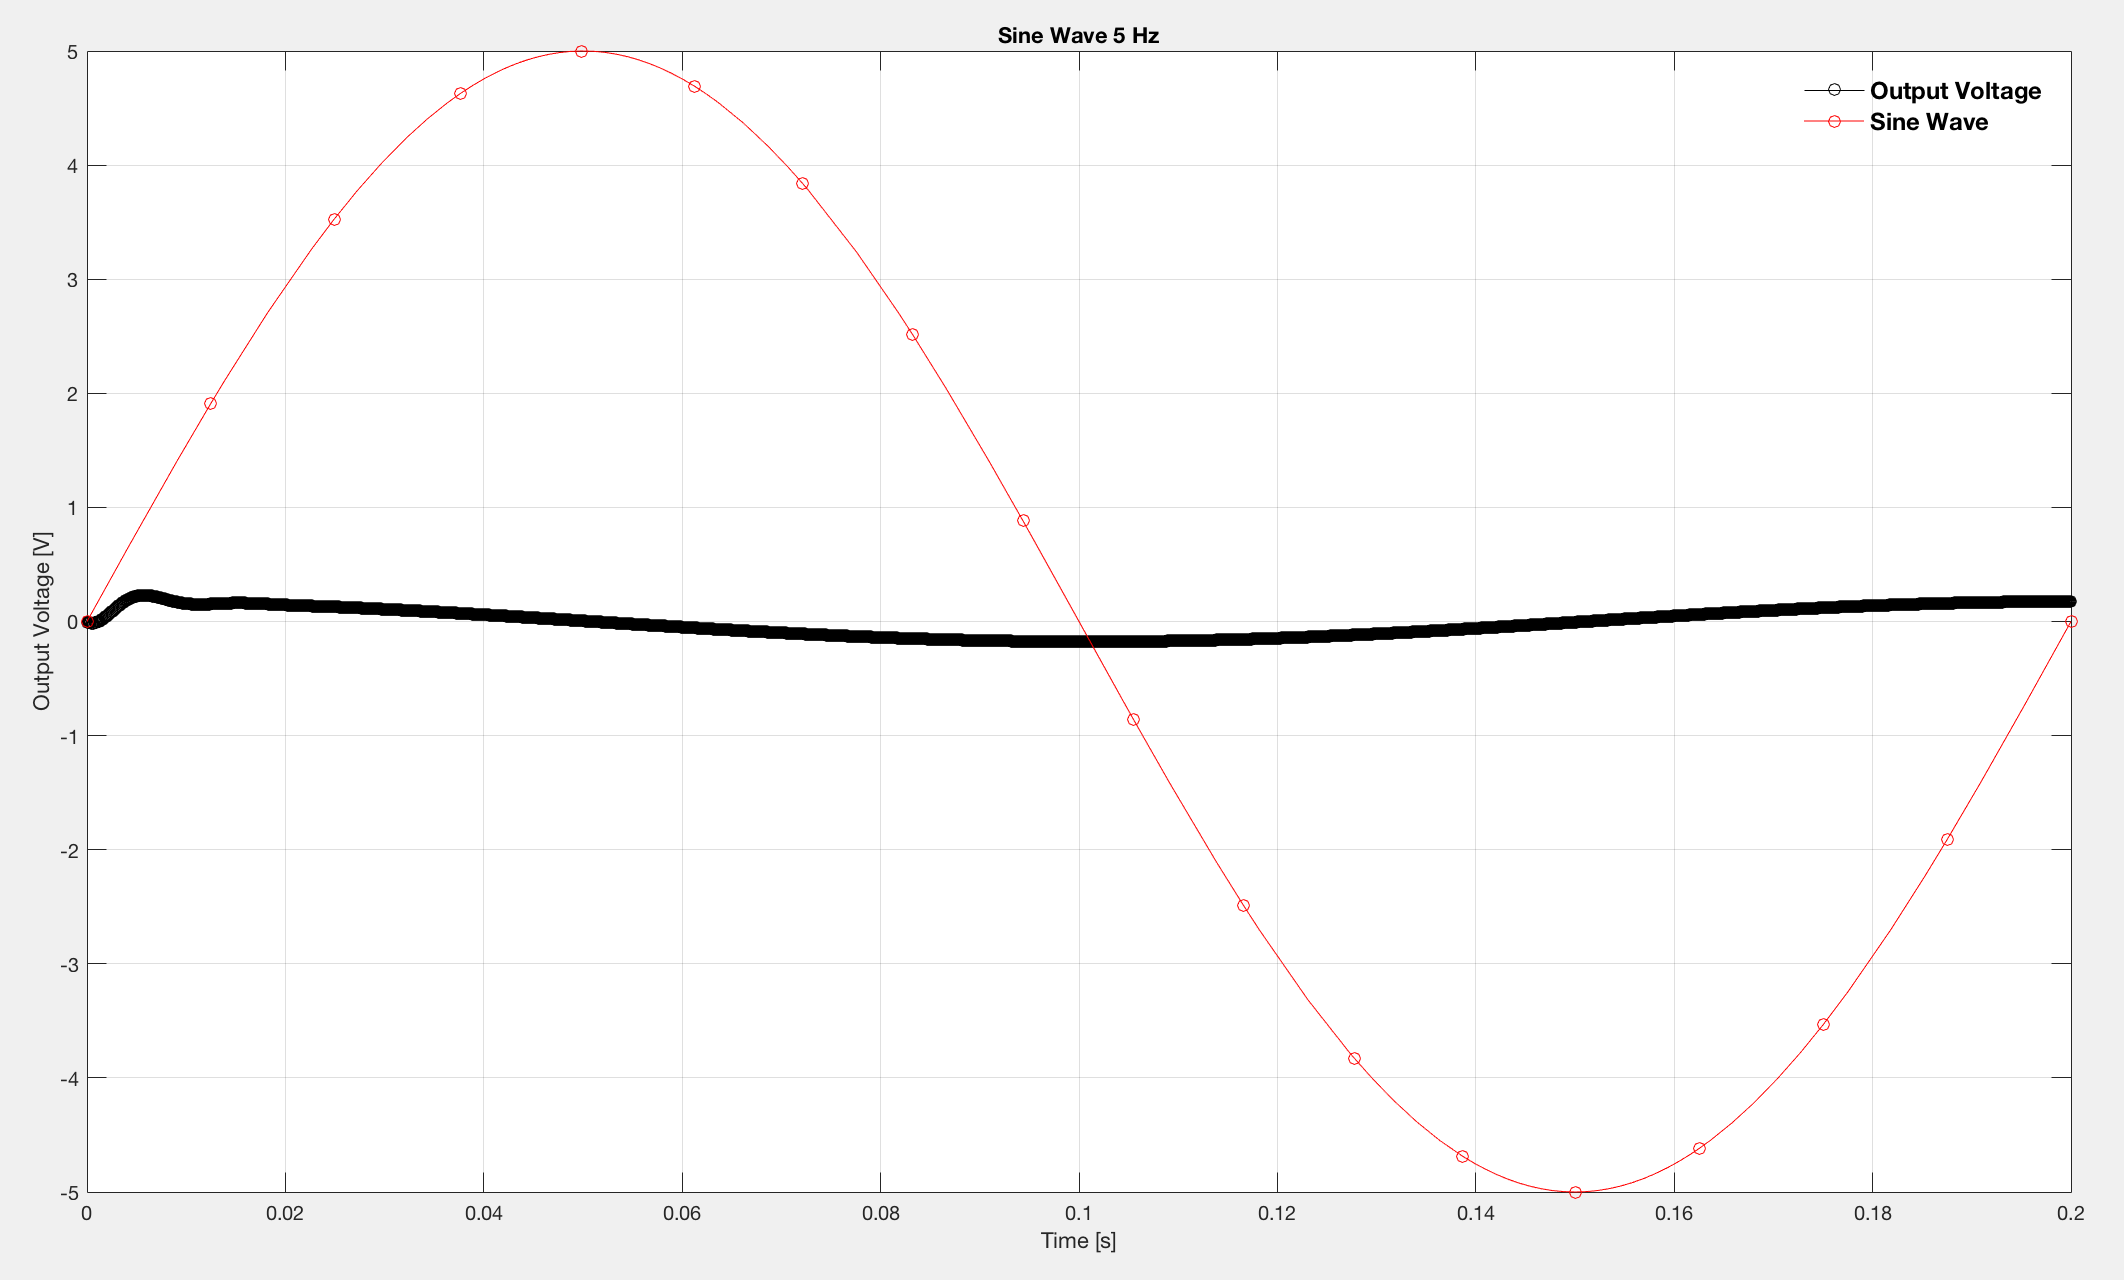
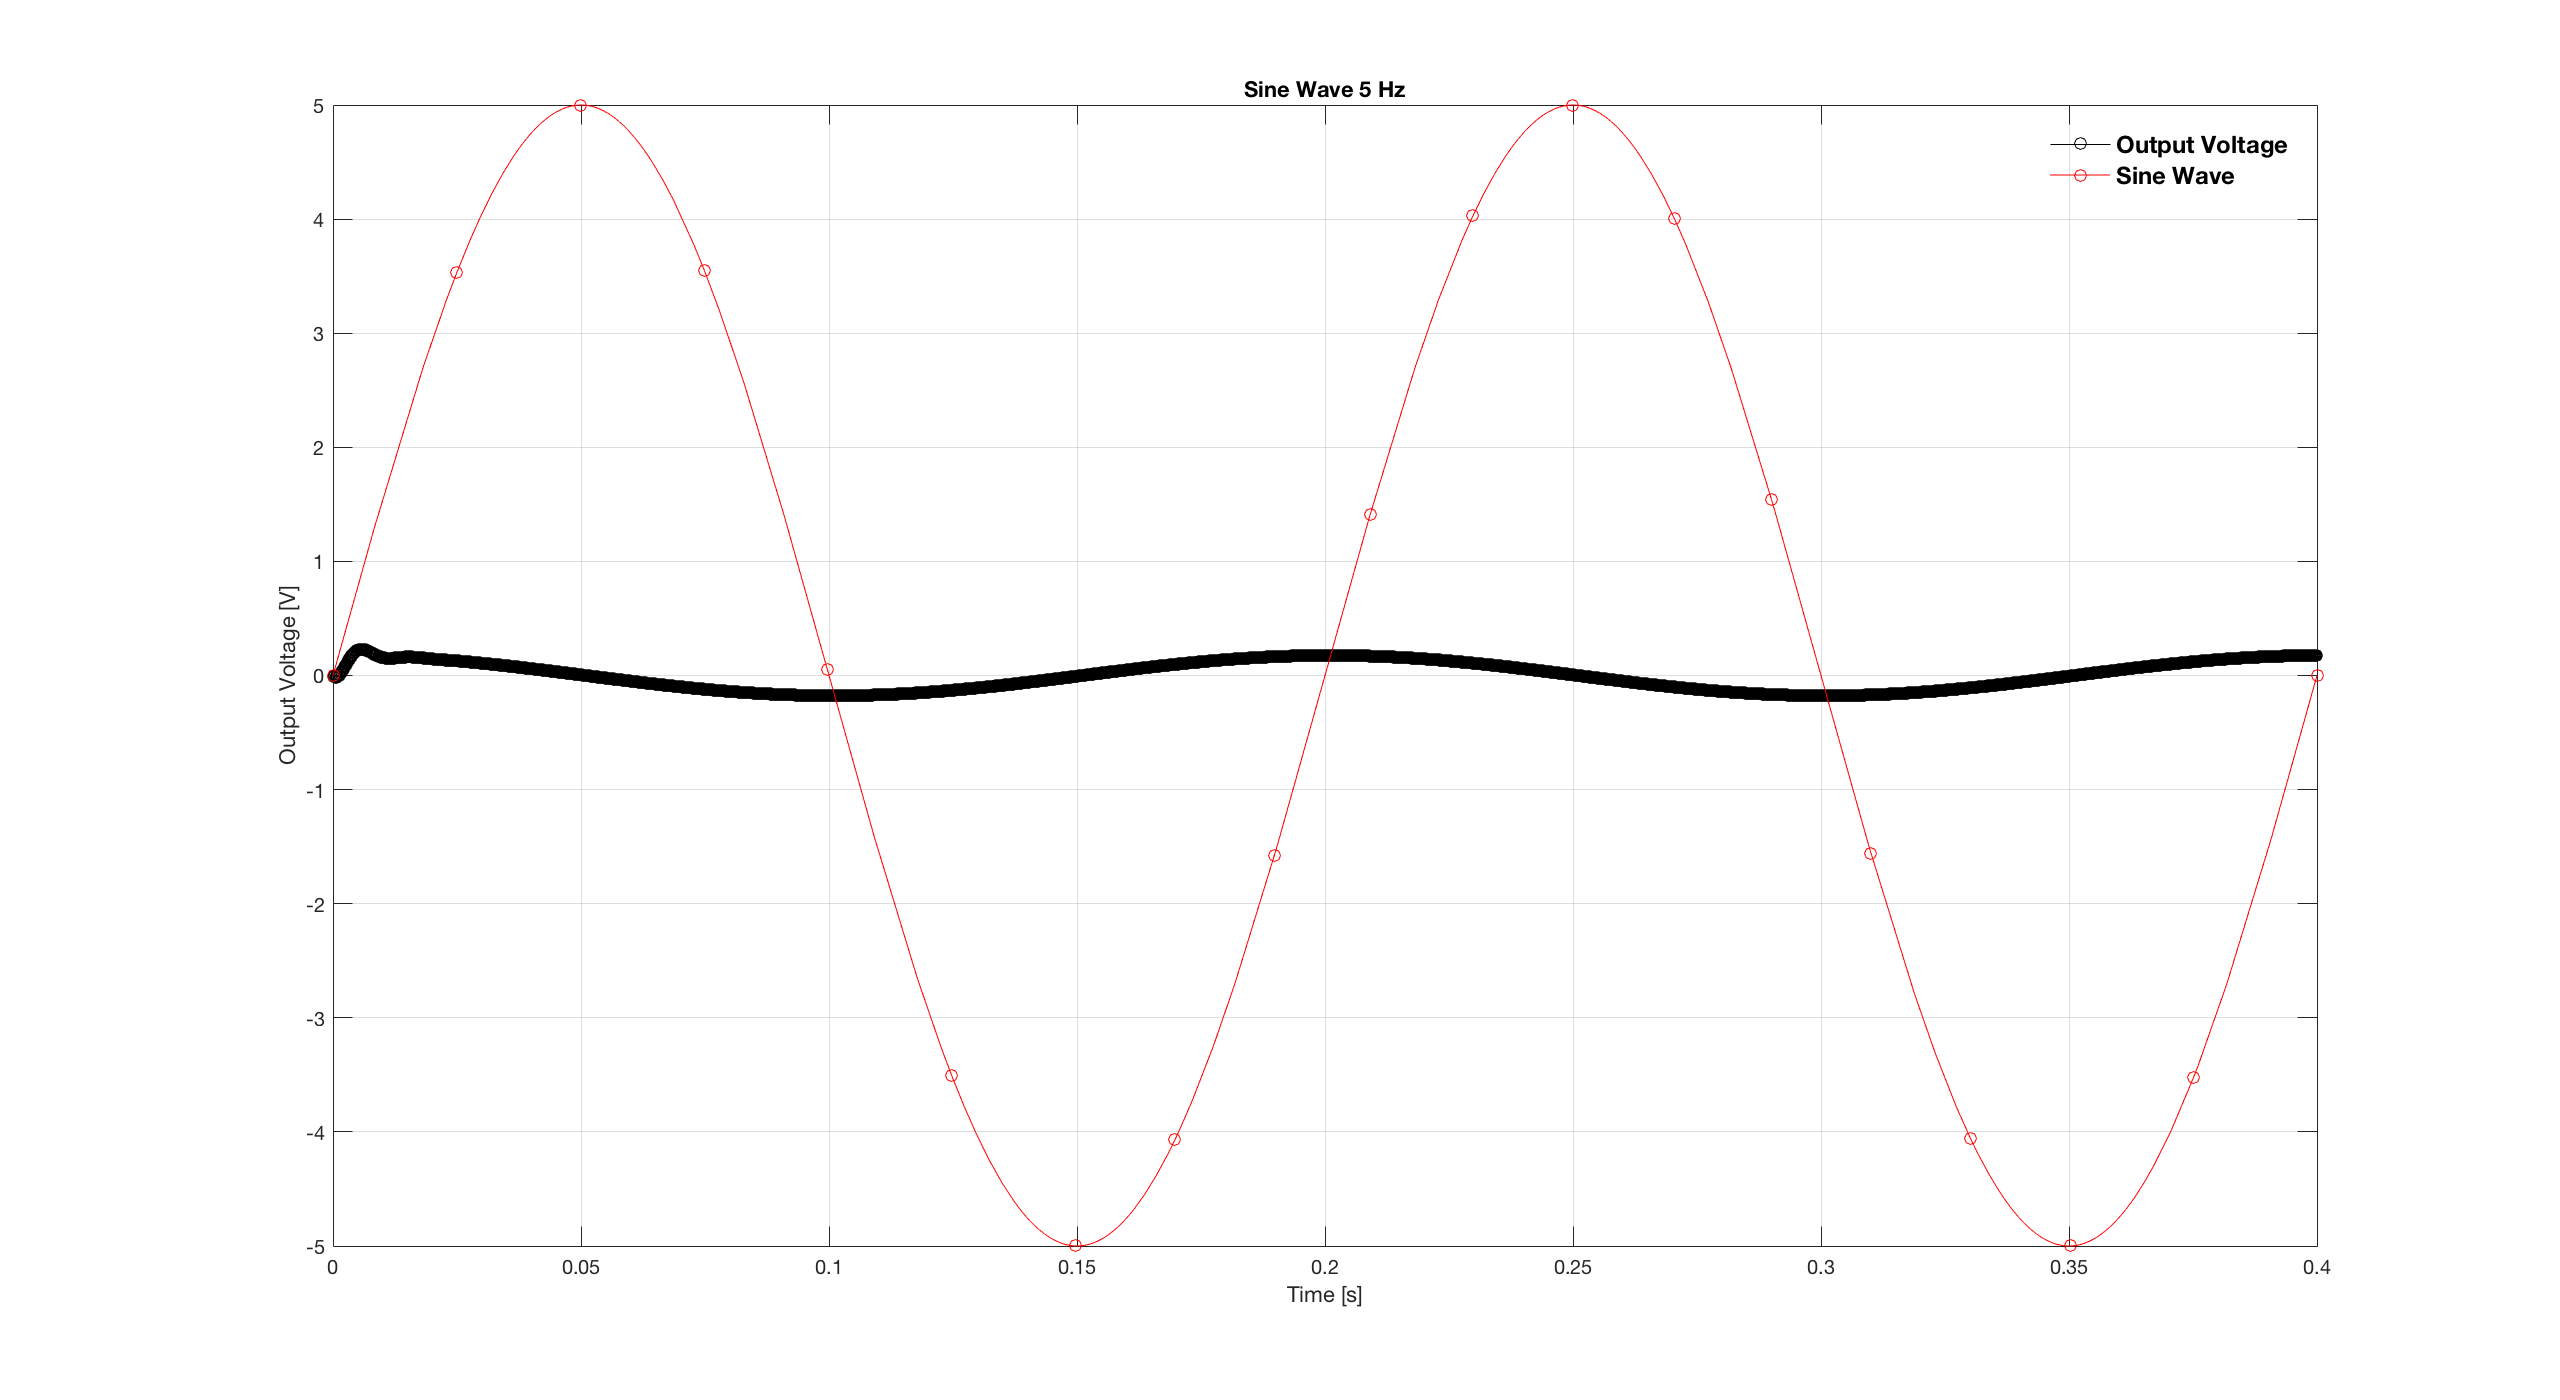
Final update of code

diff --git a/Ex3/RLC_script.m b/Ex3/RLC_script.m
@@ -1,9 +1,4 @@
-vin_step = @(t) 5; %input for step signal
-
-
-
-
-
+vin_step = @(t) 5 * heaviside(t); %input for step signal
 
 range = 0.2; %setting max of range
 h = 0.0001; % setting step size
@@ -19,7 +14,7 @@ L = 0.6; %setting given value of inductance
 vin = vin_step; %setting vin for first test
 
 %coupled equations
-funcq = @(y) y; 
+funcq = @(t,x, y) y; 
 funcqp = @(t,y,yp) (vin(t)-R*yp-y/C)/L;
 
 t = 0: h: range - h; %going from t = 0 to just 1 step below the range
@@ -30,11 +25,13 @@ for i = 2: N %starting from 2 as values at 1 already initialised, matlab starts 
     [out_step(i,1), out_step(i, 2)] = RK4second(t(i), out_step(i-1,1), out_step(i-1, 2), funcq, funcqp, h); 
 end
 
+out_step(:,2) = out_step(:,2) *R;
+
 
 % producing the figure for the step signal test
 
 figure;
-plot(t, (R*out_step(:,2)), '-ok');
+plot(t, out_step(:,2), '-ok');
 hold on;
 fplot(vin_step, [0 range], '-or');
 hold off;
@@ -55,7 +52,7 @@ vin = vin_decay; %setting vin for impulsive signal test
 
 
 %coupled equations
-funcqdecay = @(y) y;
+funcqdecay = @(t, x, y) y;
 funcqpdecay = @(t,y,yp) (vin(t)-R*yp-y/C)/L;
 for i = 2: N
   
@@ -63,10 +60,12 @@ for i = 2: N
 
 end
 
+out_decay(:,2) = out_decay(:,2) * R;
+
 % producing the figure for the impulsive signal test
 
 figure;
-plot(t, (R*out_decay(:,2)), '-ok');
+plot(t, out_decay(:,2), '-ok');
 hold on;
 fplot(vin_decay, [0 range], '-or');
 hold off
@@ -86,7 +85,7 @@ out_5square(1,:) = [500*10^-9 0]; %initialising arrays
 vin = vin_5square; %setting vin for square signal test
 
 %coupled equations
-funcq5square = @(y) y;
+funcq5square = @(t, x, y) y;
 funcqp5square = @(t,y,yp) (vin(t)-R*yp-y/C)/L;
 for i = 2: N
   
@@ -94,10 +93,12 @@ for i = 2: N
 
 end
 
+out_5square(:,2) = out_5square(:,2) * R;
+
 % producing the figure for the square signal test(5Hz)
 
 figure;
-plot(t, (R*out_5square(:,2)), '-ok');
+plot(t, out_5square(:,2), '-ok');
 hold on;
 fplot(vin_5square, [0 range], '-or');
 hold off;
@@ -118,7 +119,7 @@ out_110square(1,:) = [500*10^-9 0]; %initialising arrays
 vin = vin_110square;  %setting vin for square signal test
 
 %coupled equations
-funcq110square = @(y) y;
+funcq110square = @(t, x, y) y;
 funcqp110square = @(t,y,yp) (vin(t)-R*yp-y/C)/L;
 for i = 2: N
   
@@ -126,12 +127,12 @@ for i = 2: N
 
 end
 
-
+out_110square(:,2) = out_110square(:,2) * R;
 
 % producing the figure for the square signal test(110 Hz)
 
 figure;
-plot(t, (R*out_110square(:,2)), '-ok');
+plot(t, out_110square(:,2), '-ok');
 hold on;
 fplot(vin_110square, [0 range], '-or');
 hold off;
@@ -151,7 +152,7 @@ out_500square(1,:) = [500*10^-9 0]; %initialising arrays
 vin = vin_500square;  %setting vin for square signal test
 
 %coupled equations
-funcq1 = @(y) y;
+funcq1 = @(t, x, y) y;
 funcqp1 = @(t,y,yp) (vin(t)-R*yp-y/C)/L;
 for i = 2: N
   
@@ -159,11 +160,13 @@ for i = 2: N
 
 end
 
+out_500square(:,2) = out_500square(:,2) * R;
+
 
 % producing the figure for the square signal test(500Hz)
 
 figure;
-plot(t, (R*out_500square(:,2)), '-ok');
+plot(t, out_500square(:,2), '-ok');
 hold on;
 fplot(vin_500square, [0 range], '-or');
 hold off;
@@ -184,7 +187,7 @@ out_5sin(1,:) = [500*10^-9 0]; %initialising arrays
 vin = vin_5sin;  %setting vin for sine wave test
 
 %coupled equations
-funcq5sin = @(y) y;
+funcq5sin = @(t, x, y) y;
 funcqp5sin = @(t,y,yp) (vin(t)-R*yp-y/C)/L;
 for i = 2: N
   
@@ -192,11 +195,12 @@ for i = 2: N
 
 end
 
+out_5sin(:,2) = out_5sin(:,2) * R;
 
 % producing the figure for the sine wave test(5Hz)
 
 figure;
-plot(t, (R*out_5sin(:,2)), '-ok');
+plot(t, out_5sin(:,2), '-ok');
 hold on;
 fplot(vin_5sin, [0 range], '-or');
 hold off;
@@ -217,7 +221,7 @@ out_110sin(1,:) = [500*10^-9 0]; %initialising arrays
 vin = vin_110sin; %setting vin for sine wave test
 
 %coupled equations
-funcq110sin = @(y) y;
+funcq110sin = @(t, x, y) y;
 funcqp110sin = @(t,y,yp) (vin(t)-R*yp-y/C)/L;
 for i = 2: N
   
@@ -225,10 +229,12 @@ for i = 2: N
 
 end
 
+out_110sin(:,2) = out_110sin(:,2) * R;
+
 % producing the figure for the sine wave test(110Hz)
 
 figure;
-plot(t, (R*out_110sin(:,2)), '-ok');
+plot(t, out_110sin(:,2), '-ok');
 hold on;
 fplot(vin_110sin, [0 range], '-or');
 hold off;
@@ -249,7 +255,7 @@ out_500sin(1,:) = [500*10^-9 0]; %initialising arrays
 vin = vin_500sin; %setting vin for sine wave test
 
 %coupled equations
-funcq500sin = @(y) y;
+funcq500sin = @(t, x, y) y;
 funcqp500sin = @(t,y,yp) (vin(t)-R*yp-y/C)/L;
 for i = 2: N
   
@@ -257,10 +263,12 @@ for i = 2: N
 
 end
 
+out_500sin(:,2) = out_500sin(:,2) * R;
+
 % producing the figure for the sine wave test(500Hz)
 
 figure;
-plot(t, (R*out_500sin(:,2)), '-ok');
+plot(t, out_500sin(:,2), '-ok');
 hold on;
 fplot(vin_500sin, [0 range], '-or');
 hold off;

diff --git a/Ex3/RK4second.m b/Ex3/RK4second.m
@@ -5,18 +5,18 @@ function [x1, y1] = RK4second(t0, x0, y0, funcq, funcqp, h)
 x1 = x0;
 y1 =y0; 
 
-K_1 = h * funcq(y0); 
-S_1 = h * funcqp(t0, x0, y0);
-K_2 = h * funcq(y0 + (S_1)/3);
-S_2 = h * funcqp(t0 + h/3, x0 + (K_1)/3, y0 + (S_1)/3);
-K_3 = h * funcq(y0 - (S_1)/3 + S_2);
-S_3 = h * funcqp(t0 + (2 * h)/3, x0 - (K_1)/3 + (K_2), y0 - (S_1)/3 + S_2);
-K_4 = h * funcq(y0 + S_1 - S_2 + S_3);
-S_4 = h * funcqp(t0 + h, x0 + K_1 - K_2 + K_3, y0 + S_1 - S_2 + S_3);
+K_1 = funcq(t0, x0, y0); 
+S_1 = funcqp(t0, x0, y0);
+K_2 = funcq(t0 + h/3, x0 + h*(K_1)/3, y0 + h*(S_1)/3);
+S_2 = funcqp(t0 + h/3, x0 + h*(K_1)/3, y0 + h*(S_1)/3);
+K_3 = funcq(t0 + (2 * h)/3, x0 - h*(K_1)/3 + h*(K_2), y0 - h*(S_1)/3 + h*S_2);
+S_3 = funcqp(t0 + (2 * h)/3, x0 - h*(K_1)/3 + h*(K_2), y0 - h*(S_1)/3 + h*S_2);
+K_4 = funcq(t0 + h, x0 + h*K_1 - h*K_2 + h*K_3, y0 + h*S_1 - h*S_2 + h*S_3);
+S_4 = funcqp(t0 + h, x0 + h*K_1 - h*K_2 + h*K_3, y0 + h*S_1 - h*S_2 + h*S_3);
 
 %similar to normal runge kutta but the two middle values have weighting of
 %3/8  and outer ones have 1/8 as opposed to 1/6, 1/3, 1/3, 1/6
-x1 = x1 + ((K_1 + 3 * K_2 + 3 * K_3 + K_4)/8);
-y1 = y1 + ((S_1 + 3 * S_2 + 3 * S_3 + S_4)/8);
+x1 = x1 + ((h/8)* (K_1 + 3 * K_2 + 3 * K_3 + K_4));
+y1 = y1 + ((h/8)* (S_1 + 3 * S_2 + 3 * S_3 + S_4));
     
     
